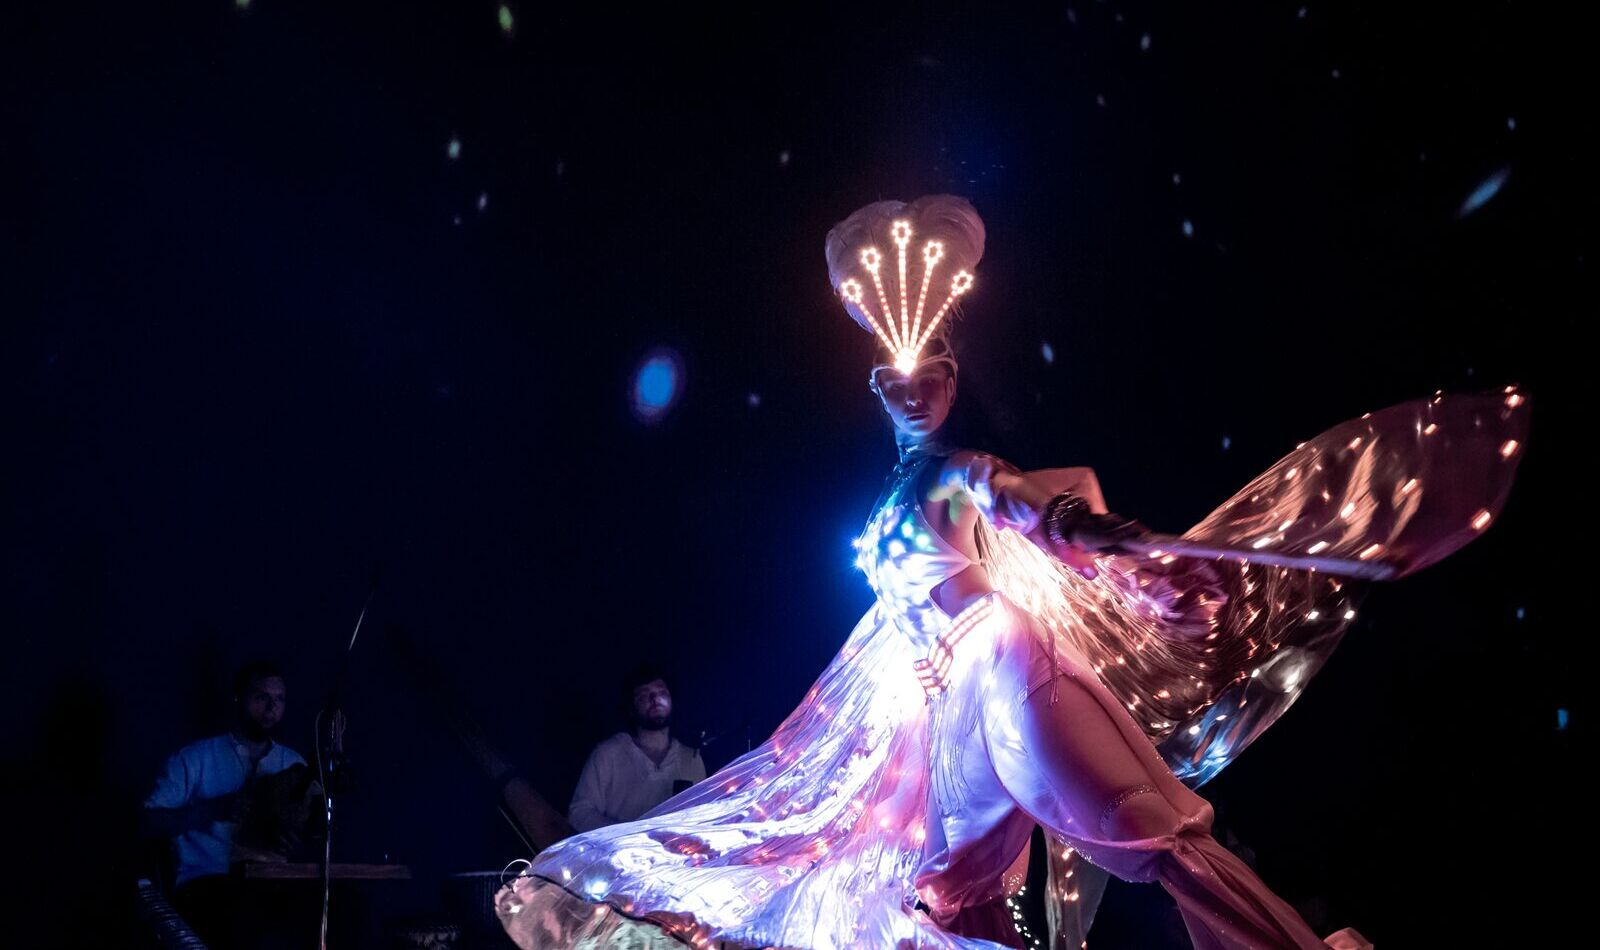
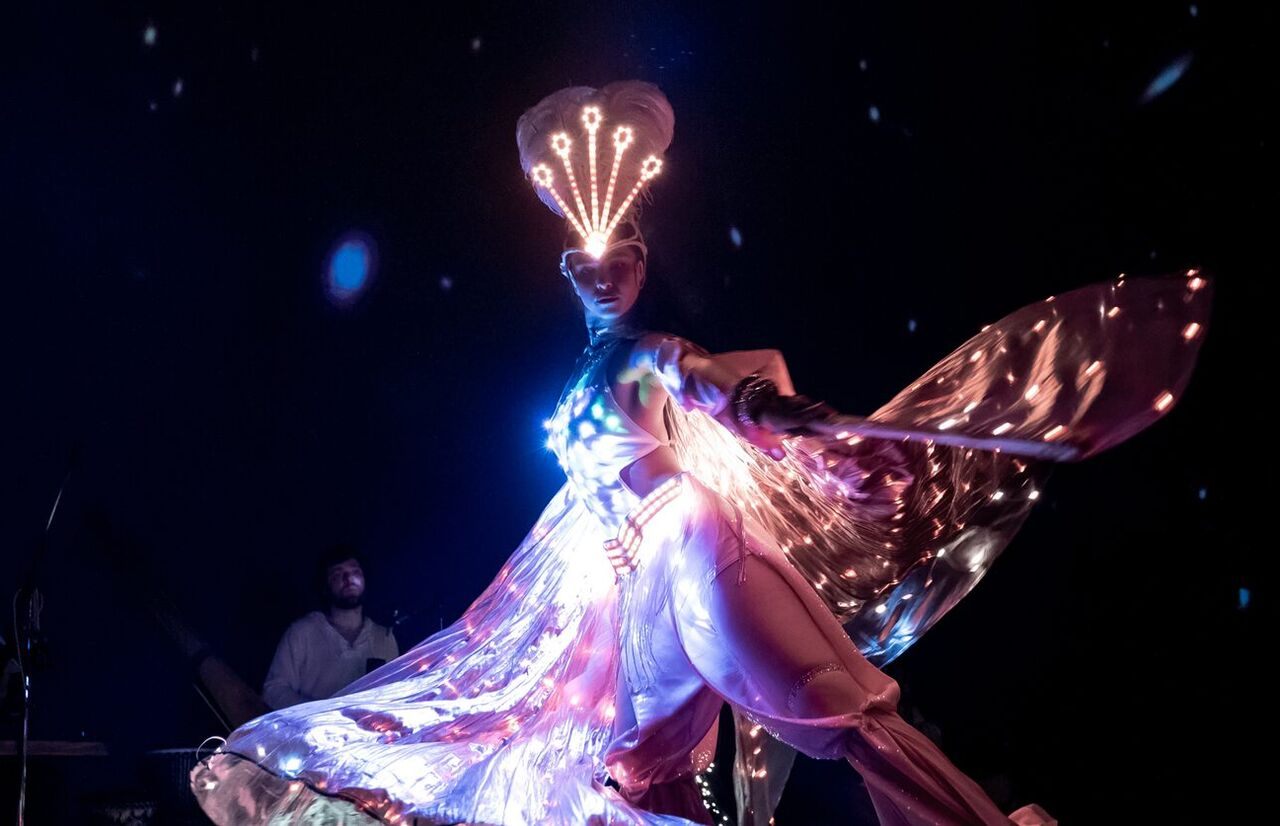
Кадр светового шоу выше, надзаголовок агентствам дочитывается
- light-show.jpg пересобран из оригинала: 1280×826, пропорция совпадает с окном
  карточки, поэтому композицию держит файл, а не object-fit. Артистка крупнее,
  тёмная пустота сверху и слева ушла
- /agency: «Почему с нами агентству» → «Почему агентству удобно работать с нами»
  — во фразе не хватало глагола
- /hr: акцент в H1 расширен на всю строку «лучше, а не тяжелее» по просьбе
  заказчика. Стандарт разрешает 1–3 слова, здесь четыре — решение осознанное.
  Чтобы капс и курсив не слипались в одну строку на узком экране, акцент
  выведен в блок (.hero--hr h1 em)

diff --git a/assets/css/site.css b/assets/css/site.css
@@ -646,6 +646,12 @@ p.p-sm, .p-sm { font-size: var(--t-small); }
 /* Скоуп обязателен: без .hero--pr правило сдвинуло бы кадр во всех героях.
    Кадр оранжереи: держим в кадре и купол, и поднятые руки — режем снизу. */
 .hero--pr .hero__media img { object-position: center 42%; }
+
+/* Акцент в заголовке /hr — целая фраза, а не слово, поэтому держим её отдельной
+   строкой: иначе на узком экране «команде лучше,» слипается в одну строку из
+   гротеска и курсива. Скоуп по .hero--hr: в agency акцент стоит в середине
+   фразы, там блок разорвал бы заголовок пополам. */
+.hero--hr h1 em { display: block; }
 /* Крупная строка-утверждение. Не заголовок — обычный регистр. */
 .statement { font-size: clamp(1.3rem, 1rem + 1.4vw, 1.75rem); line-height: 1.35; max-width: 30ch; font-weight: 400; }
 .wow { display: grid; grid-template-columns: repeat(3, 1fr); gap: 22px; }

diff --git a/hr.html b/hr.html
@@ -28,13 +28,13 @@
 
   <main>
     <!-- ГЕРОЙ -->
-    <section class="hero">
+    <section class="hero hero--hr">
       <div class="hero__media">
         <img src="assets/img/yoga-embankment.jpg" alt="Команда на йога-практике на набережной у залива">
       </div>
       <div class="hero__inner wrap">
         <span class="eyebrow">Забота о команде · для HR</span>
-        <h1>Корпоратив, после которого команде <em>лучше</em>, а не тяжелее</h1>
+        <h1>Корпоратив, после которого команде <em>лучше, а не тяжелее</em></h1>
         <p class="hero__sub">Йога и практики восстановления для ваших сотрудников — в офисе, на выезде или регулярно.</p>
         <div class="cta-row">
           <a class="btn" href="#zayavka" data-cta="hero:hr">Подобрать формат для команды</a>

diff --git a/agency.html b/agency.html
@@ -60,7 +60,7 @@
     <section class="section">
       <div class="wrap">
         <div class="section-head is-observe reveal">
-          <span class="eyebrow">Почему с нами агентству</span>
+          <span class="eyebrow">Почему агентству удобно работать с нами</span>
           <h2>Один подрядчик — закрытый <em>блок программы</em></h2>
         </div>
         <div class="reasons is-observe reveal">
